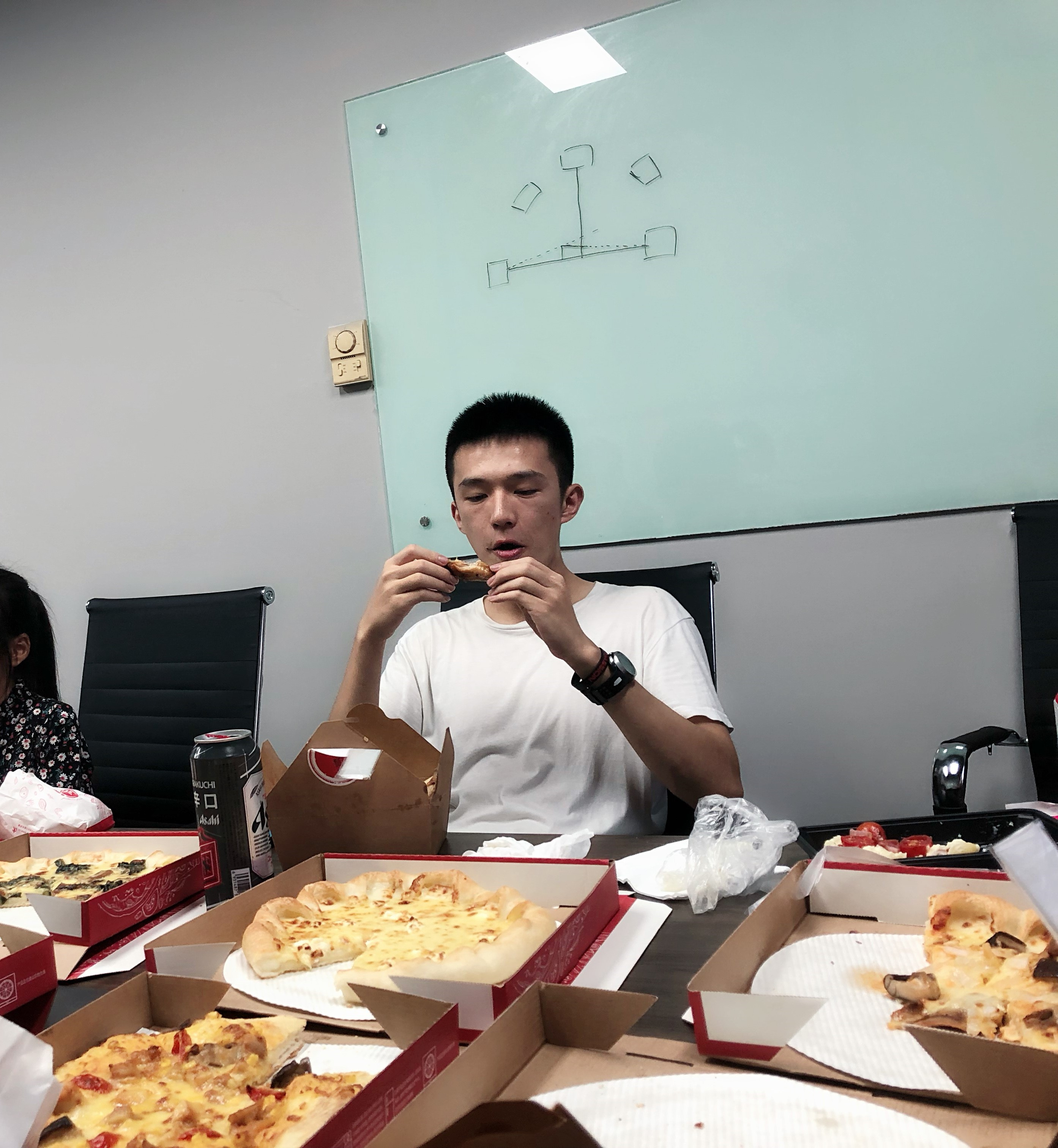
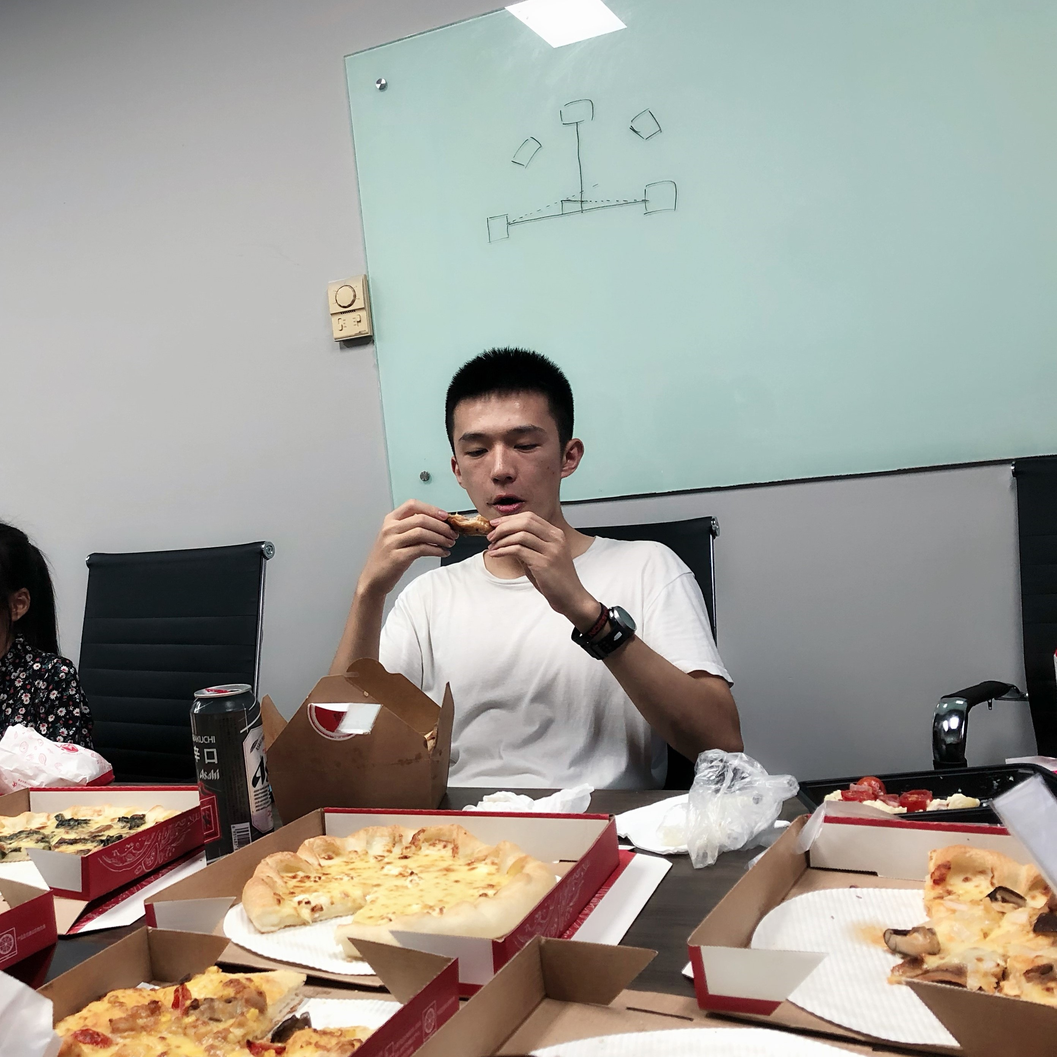
More edits

diff --git a/style.css b/style.css
@@ -1,0 +1,221 @@
+html
+{
+}
+
+body
+{
+	font-family: "Lato", Helvetica, Arial, sans-serif;
+	font-size: 14pt;
+	margin: 0px;
+	border: 0px;
+	padding: 0px;
+}
+
+a
+{
+	text-decoration: none;
+	color: #007799; /*rgb(82, 173, 200);*/
+}
+
+#triangle
+{
+	position: absolute;
+	top: 345px;
+	left: 345px;
+	width: 36px;
+	overflow: hidden;
+}
+
+#sidebar
+{
+	position: absolute;
+	left: 0;
+	top: 0;
+	right: 0px;
+	width: 350px;
+	bottom: 0px;
+	background: #1c732d;
+	overflow-y: auto;
+	overflow-x: hidden;
+	scrollbar-width: none;
+}
+
+#profilePic
+{
+	margin: 8px;
+	width: 334px;
+}
+
+#sidebarHeading
+{
+	text-align: center;
+	margin: 5px;
+	font-size: 28pt;
+}
+
+#sidebarSubheading, #email
+{
+	text-align: center;
+	margin: 0px;
+	font-size: 18pt;
+	color: #222222
+}
+
+.institutionLogo
+{
+	width: 20px;
+	vertical-align: middle;
+}
+
+#tabList
+{
+	list-style-type: none;
+	text-align: right;
+	float: right;
+	margin: 0px;
+	border: 0px;
+	padding: 0px;
+	margin-top: 10px;
+	left: 0px;
+	width: 100%;
+}
+
+#tabList li
+{
+	cursor: pointer;
+	text-align: right;
+	font-size: 18pt;
+	margin: 0px;
+	border: 0px;
+	padding: 5px 0px 5px 0px;
+	width: 100%;
+	font-size: 22pt;
+	-webkit-touch-callout: none;
+	-webkit-user-select: none;
+	-khtml-user-select: none;
+	-moz-user-select: none;
+	-ms-user-select: none;
+	user-select: none;
+}
+
+.activeTab
+{
+	background: #6b9de4;
+}
+
+.inactiveTab
+{
+	background: inherit;
+}
+
+.inactiveTab:hover
+{
+	background: #b71313;
+}
+
+#homeBody
+{
+	background-image: url("Media/CMUWhiteboardDark.jpg");
+	background-attachment: fixed;
+	background-size: cover;
+	background-repeat: none;
+}
+
+#homeTextDiv
+{
+	position: absolute;
+	left: 350px;
+	top: 0;
+	bottom: 0;
+	right: 0;
+	padding: 110px;
+	overflow: scroll;
+}
+
+#homeTextDiv a
+{
+	color: blue;
+}
+
+#publicationsTextDiv
+{
+	position: absolute;
+	left: 350px;
+	top: 0;
+	bottom: 0;
+	right: 0;
+	padding: 110px;
+	overflow: scroll;
+
+	margin-top: -50px;
+	padding: 110px;
+}
+
+.publicationHeading
+{
+	font-size: 30px;
+}
+
+.publicationsTable
+{
+	border-spacing: 10px 0;
+}
+
+.citationImage
+{
+	vertical-align: top;
+}
+
+.citationImage img
+{
+	margin-left: -10px;
+	height: 100px;
+}
+
+.citationText
+{
+	vertical-align: top;
+	color: rgb(73, 78, 82);
+}
+
+.citationTitle
+{
+	color: rgb(0, 0, 0);
+}
+
+.citationAbbreviation
+{
+	vertical-align: top;
+	text-align: center;
+  font-weight: bold;
+}
+
+.citationAbbreviation a
+{
+	color: #1c732d;
+}
+
+.goldStar
+{
+  color: white;
+  font-weight: bold;
+  border-radius: 4px;
+  background: #eda715;
+  padding: 2px;
+  white-space: pre;
+}
+
+.silverStar
+{
+  color: white;
+  font-weight: bold;
+  border-radius: 4px;
+  background: black;
+  padding: 2px;
+  white-space: pre;
+}
+
+.spacerRow
+{
+	height: 15px;
+}

diff --git a/index.html b/index.html
@@ -8,7 +8,7 @@
 </head>
 <body id="homeBody">
 	<div id="sidebar">
-		<img id="profilePic" src="media/Eating Chicken Wing2.jpg"/>
+		<img id="Davidson Cheng" src="media/Eating Chicken Wing2.jpg" style="width:500px;height:500px;"/>
 		<center>
 			<p id="sidebarHeading">Chang "Davidson" Cheng</p>
 			<!--p id="sidebarSubheading"><img class="institutionLogo" src="Media/Cambridge.png"/> University of Cambridge <img class="institutionLogo" src="Media/Cambridge.png"/></p-->
